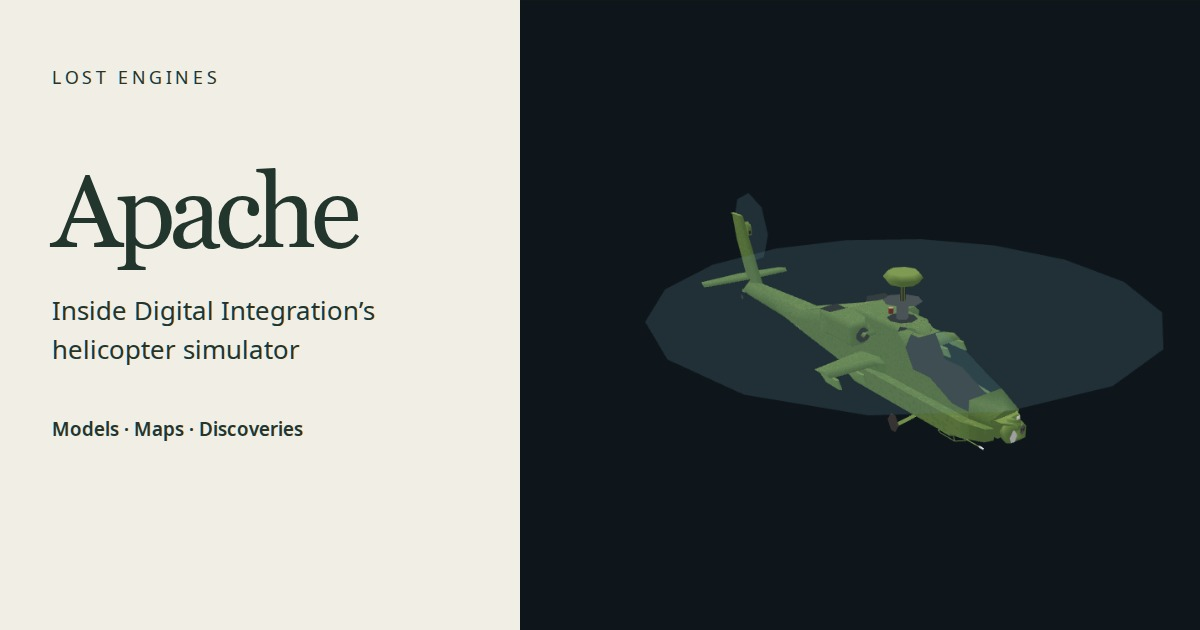
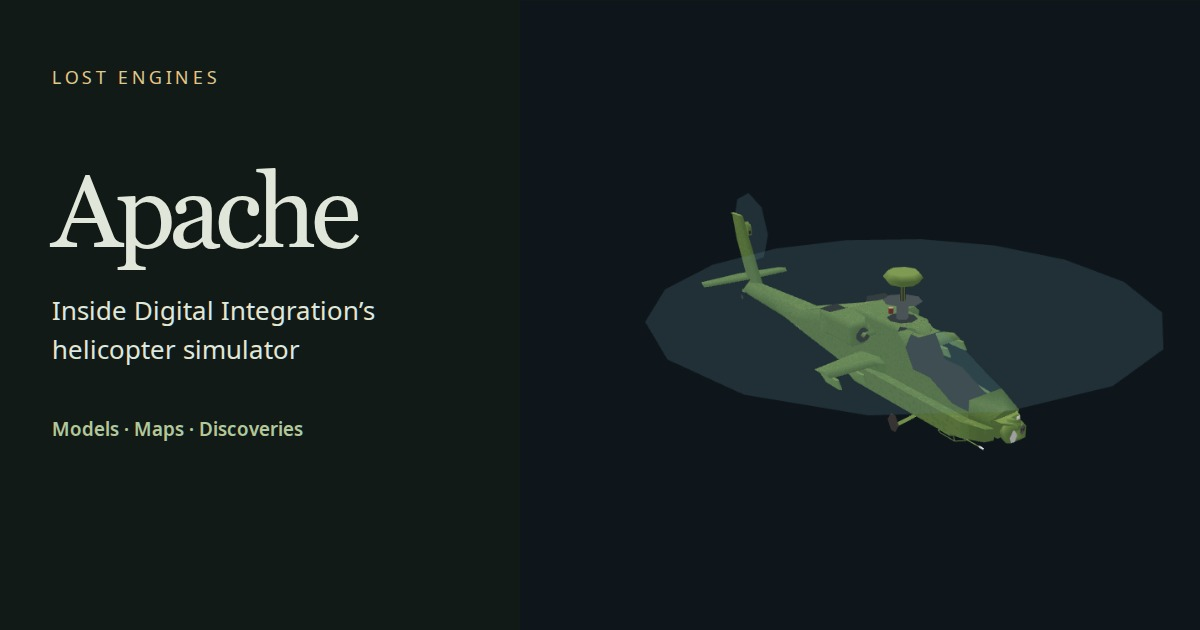
Match Apache showcase to the Lost Engines dark theme

diff --git a/src/style.css b/src/style.css
@@ -1,6 +1,10 @@
-/* Paper, ink and the olive paint of the original machines. */
-:root{color-scheme:light;--paper:#f1eee5;--ink:#23362d;--muted:#596459;--line:#c8cebf;--accent:#355d47;--panel:#e7e9de;font:17px/1.65 system-ui,-apple-system,BlinkMacSystemFont,"Segoe UI",sans-serif}*{box-sizing:border-box}html{scroll-behavior:smooth}body{margin:0;background:var(--paper);color:var(--ink)}a{color:var(--accent);text-underline-offset:.2em}a:hover{color:#89552c}button,input,select{font:inherit}button,a,input,select,summary{touch-action:manipulation}:focus-visible{outline:3px solid #b67a36;outline-offset:4px}img{max-width:100%;height:auto}figure{margin:0}h1,h2,h3,p{margin-top:0}h1,h2,h3{line-height:1.15;text-wrap:balance}h1{font-size:clamp(2.5rem,6vw,4.5rem);letter-spacing:-.045em;margin-bottom:1.1rem}h2{font-size:1.9rem;letter-spacing:-.025em}h3{font-size:1.3rem}p{max-width:74ch}code{font-size:.87em;overflow-wrap:anywhere}pre{overflow:auto;background:#e4e6dc;padding:1.1rem;border-left:3px solid #869d78;line-height:1.5}pre code{overflow-wrap:normal}figcaption{font-size:.85rem;line-height:1.5;color:var(--muted);padding:.75rem 0}.pixel-art{image-rendering:pixelated}.eyebrow{font-size:.7rem;letter-spacing:.15em;text-transform:uppercase;font-weight:750;color:var(--muted);margin-bottom:1rem}.topbar{display:flex;align-items:center;justify-content:space-between;gap:1.5rem;padding:1.2rem max(1.5rem,calc((100vw - 1380px)/2));border-bottom:1px solid var(--line);background:var(--paper)}.brand{display:flex;gap:.65rem;align-items:center;text-decoration:none;color:var(--ink);white-space:nowrap;font-weight:750;letter-spacing:-.02em}.brand b{font-weight:400}.topbar nav{display:flex;gap:1.3rem;flex-wrap:wrap}.topbar nav a{font-size:.85rem;color:var(--ink);text-decoration:none;padding:.2rem 0}.topbar nav a:hover,.topbar nav a[aria-current]{box-shadow:0 2px #71846a}.nav-toggle{display:none;background:transparent;border:1px solid var(--line);padding:.4rem .65rem;color:var(--ink)}main{max-width:1380px;margin:auto;padding:3.5rem 1.5rem 4rem}.skip-link{position:absolute;top:-100px;left:1rem;padding:.7rem;background:var(--paper);z-index:10}.skip-link:focus{top:0}.hero{display:grid;grid-template-columns:1fr 1.15fr;align-items:center;gap:3rem;min-height:540px}.hero h1{font-family:Georgia,serif;font-size:clamp(4rem,6.7vw,6rem);font-weight:400;letter-spacing:-.055em;line-height:.97;margin:1.4rem 0}.hero h1 em{font-weight:400;color:#52714f}.hero-copy>p:not(.eyebrow){max-width:40ch}.lede{font-size:1.2rem;line-height:1.55}.hero-image img{display:block;width:100%;background:#0e171d;aspect-ratio:1.28;object-fit:cover;border-radius:1px}.hero-image figcaption{text-align:right;max-width:44ch;margin-left:auto}.hero-actions{display:flex;align-items:center;gap:1.4rem;flex-wrap:wrap;margin:2rem 0}.hero-actions a{font-size:.9rem}.button{display:inline-flex;align-items:center;gap:1rem;background:var(--ink);color:#f6f0df;text-decoration:none;padding:.85rem 1.1rem}.button:hover{color:#fff;background:#466143}.section-heading{display:flex;justify-content:space-between;align-items:baseline;gap:1.5rem;border-top:1px solid var(--line);padding-top:2rem}.section-heading p{font-size:.9rem;color:var(--muted)}.explore{margin:4.5rem 0}.exhibit-cards{display:grid;grid-template-columns:1fr 1fr;gap:2.3rem 1.6rem}.exhibit-card{text-decoration:none;display:block;border:1px solid var(--line);color:var(--ink);background:#e8e9df;transition:transform .15s}.exhibit-card:hover{transform:translateY(-3px);color:var(--ink);border-color:#7a9072}.exhibit-card>img{width:100%;aspect-ratio:16/9;object-fit:cover;background:#0e171d;display:block}.exhibit-card>div{padding:1.35rem 1.5rem}.exhibit-card .eyebrow{margin-bottom:.55rem}.exhibit-card h3{margin-bottom:.8rem}.exhibit-card h3 span{float:right}.exhibit-card p:last-child{font-size:.95rem;color:var(--muted);margin:0}.discovery{display:grid;grid-template-columns:320px 1fr;align-items:center;gap:3rem;padding:2.5rem;background:#e1e4d5;border:1px solid #c1c9b4;margin-bottom:4rem}.discovery img{display:block;width:100%}.discovery p{max-width:55ch}.play-section{display:grid;grid-template-columns:1.5fr 1fr;gap:4rem;border-top:1px solid var(--line);padding:2.3rem 0}.play-links{display:flex;flex-direction:column;justify-content:center}.play-links a{padding:1rem 0;border-bottom:1px solid var(--line);text-decoration:none;font-size:1.2rem}.play-links span{float:right}.site-footer{max-width:1380px;margin:auto;border-top:1px solid var(--line);padding:2rem 1.5rem 3rem;display:flex;justify-content:space-between;gap:2rem;color:var(--muted);font-size:.85rem}.site-footer nav{display:flex;gap:1.3rem;flex-wrap:wrap;align-items:flex-start}.site-footer a{text-decoration:none}.footer-brand{font-weight:700;font-size:1rem}.site-footer p{margin:.4rem 0}.prose{max-width:780px;margin:auto;font:1.14rem/1.85 Georgia,"Times New Roman",serif}.prose h1,.prose h2,.prose .eyebrow,.prose figcaption{font-family:system-ui,sans-serif}.prose h1{font-size:clamp(2.6rem,5vw,4rem);margin-bottom:1.5rem}.prose h2{margin:3rem 0 1.2rem;scroll-margin-top:2rem;font-size:1.8rem}.prose p{margin-bottom:1.35rem}.prose figure{margin:2rem -1.5rem}.prose figure img{display:block;width:100%;background:#0e171d}.prose figure .small-source{width:640px;max-width:100%;margin:auto}.prose figcaption{font-size:.8rem;line-height:1.6}.prose pre{font-size:.9rem}.prose li{margin-bottom:.6rem}.story-layout{display:grid;grid-template-columns:210px minmax(0,1fr);gap:3.5rem;max-width:1150px;margin:auto}.contents{position:sticky;top:2rem;align-self:start}.contents nav{display:flex;flex-direction:column;gap:.7rem}.contents a{font-size:.82rem;text-decoration:none;line-height:1.45}.contents .eyebrow{margin-bottom:1.3rem}.image-link{display:block;font: .8rem/1.5 system-ui,sans-serif;text-align:center;padding:.7rem}.art-layout{display:grid;grid-template-columns:1.1fr 1fr;gap:3.5rem;align-items:center}.exhibit-intro{max-width:850px;margin-bottom:2rem}.art-frame img{display:block;width:640px;margin:auto}.art-notes h2{font-size:1.5rem}.fog-section{border-top:1px solid var(--line);margin-top:4rem;padding-top:3rem}.art-layout button{background:#e1e5d7;color:var(--ink);border:1px solid #a6b29b;padding:.6rem 1rem;cursor:pointer}.art-layout button[aria-pressed=true]{background:var(--ink);color:#f6f0df}.toolbar{display:flex;gap:.8rem;flex-wrap:wrap;align-items:center;margin:1rem 0}.muted{color:var(--muted)}.page-exhibit{--bg:#111a17;--paper:#111a17;--ink:#e0e7da;--text:#e0e7da;--muted:#a7b6a4;--panel:#1d2a24;--line:#3b4b3f;--accent:#e1c88b;color-scheme:dark}.page-exhibit main{max-width:1680px;padding-top:2.5rem}.page-exhibit .topbar{background:#17221b}.page-exhibit .brand{color:#e0e7da}.page-exhibit h1{font-size:2.8rem}.page-exhibit a:hover{color:#fff1c5}.page-exhibit .topbar nav a{color:#dce3d6}.page-exhibit p{max-width:85ch}.page-exhibit label{font-size:.87rem}.page-exhibit select{max-width:100%}.page-exhibit .exhibit>p:first-of-type{color:var(--muted);margin-bottom:1.5rem}.page-exhibit #figure{height:560px;min-height:0}.page-exhibit .details h2{font-size:1.2rem}.page-exhibit .panel{border-radius:2px}.page-exhibit .viewer-wrap{border-radius:2px}.page-exhibit summary{cursor:pointer;padding:.6rem 0;color:var(--accent)}.page-exhibit .timeline{flex:1;max-width:600px}.page-exhibit .timeline input{width:100%;min-width:100px}.page-exhibit .toolbar h2{font-size:1.2rem;margin:0}.page-exhibit #mission{max-width:100%;width:32ch}.page-exhibit .browser-filters{gap:1.1rem}.page-exhibit #count{font-size:.85rem}.page-exhibit #briefing p{font-size:.9rem}.page-exhibit #error:empty{display:none}.page-exhibit #nearby,.page-exhibit #actors{font-size:.85rem}.page-exhibit #view{outline:none}.page-exhibit .exhibit-intro p{color:var(--muted)}.page-exhibit .exhibit-intro .eyebrow{color:var(--accent)}.page-exhibit .preview{padding:.8rem}.page-exhibit .parts{margin-top:1rem}.page-exhibit .parts article{overflow:hidden}.page-exhibit .parts strong{display:block}
+/* Olive and amber accents, with surfaces that follow the browser colour scheme. */
+:root{color-scheme:light;--paper:#f1eee5;--ink:#23362d;--muted:#596459;--line:#c8cebf;--accent:#355d47;--panel:#e7e9de;--surface:#e8e9df;--code:#e4e6dc;--code-line:#869d78;--band:#e1e4d5;--band-line:#c1c9b4;--hover:#89552c;--heading-accent:#52714f;--button:#23362d;--button-ink:#f6f0df;--button-hover:#466143;--focus:#b67a36;--nav-line:#71846a;--control:#e1e5d7;--control-line:#a6b29b;font:17px/1.65 system-ui,-apple-system,BlinkMacSystemFont,"Segoe UI",sans-serif}*{box-sizing:border-box}html{scroll-behavior:smooth}body{margin:0;background:var(--paper);color:var(--ink)}a{color:var(--accent);text-underline-offset:.2em}a:hover{color:var(--hover)}button,input,select{font:inherit}button,a,input,select,summary{touch-action:manipulation}:focus-visible{outline:3px solid var(--focus);outline-offset:4px}img{max-width:100%;height:auto}figure{margin:0}h1,h2,h3,p{margin-top:0}h1,h2,h3{line-height:1.15;text-wrap:balance}h1{font-size:clamp(2.5rem,6vw,4.5rem);letter-spacing:-.045em;margin-bottom:1.1rem}h2{font-size:1.9rem;letter-spacing:-.025em}h3{font-size:1.3rem}p{max-width:74ch}code{font-size:.87em;overflow-wrap:anywhere}pre{overflow:auto;background:var(--code);padding:1.1rem;border-left:3px solid var(--code-line);line-height:1.5}pre code{overflow-wrap:normal}figcaption{font-size:.85rem;line-height:1.5;color:var(--muted);padding:.75rem 0}.pixel-art{image-rendering:pixelated}.eyebrow{font-size:.7rem;letter-spacing:.15em;text-transform:uppercase;font-weight:750;color:var(--muted);margin-bottom:1rem}.topbar{display:flex;align-items:center;justify-content:space-between;gap:1.5rem;padding:1.2rem max(1.5rem,calc((100vw - 1380px)/2));border-bottom:1px solid var(--line);background:var(--paper)}.brand{display:flex;gap:.65rem;align-items:center;text-decoration:none;color:var(--ink);white-space:nowrap;font-weight:750;letter-spacing:-.02em}.brand b{font-weight:400}.topbar nav{display:flex;gap:1.3rem;flex-wrap:wrap}.topbar nav a{font-size:.85rem;color:var(--ink);text-decoration:none;padding:.2rem 0}.topbar nav a:hover,.topbar nav a[aria-current]{box-shadow:0 2px var(--nav-line)}.nav-toggle{display:none;background:transparent;border:1px solid var(--line);padding:.4rem .65rem;color:var(--ink)}main{max-width:1380px;margin:auto;padding:3.5rem 1.5rem 4rem}.skip-link{position:absolute;top:-100px;left:1rem;padding:.7rem;background:var(--paper);z-index:10}.skip-link:focus{top:0}.hero{display:grid;grid-template-columns:1fr 1.15fr;align-items:center;gap:3rem;min-height:540px}.hero h1{font-family:Georgia,serif;font-size:clamp(4rem,6.7vw,6rem);font-weight:400;letter-spacing:-.055em;line-height:.97;margin:1.4rem 0}.hero h1 em{font-weight:400;color:var(--heading-accent)}.hero-copy>p:not(.eyebrow){max-width:40ch}.lede{font-size:1.2rem;line-height:1.55}.hero-image img{display:block;width:100%;background:#0e171d;aspect-ratio:1.28;object-fit:cover;border-radius:1px}.hero-image figcaption{text-align:right;max-width:44ch;margin-left:auto}.hero-actions{display:flex;align-items:center;gap:1.4rem;flex-wrap:wrap;margin:2rem 0}.hero-actions a{font-size:.9rem}.button{display:inline-flex;align-items:center;gap:1rem;background:var(--button);color:var(--button-ink);text-decoration:none;padding:.85rem 1.1rem}.button:hover{color:var(--button-ink);background:var(--button-hover)}.section-heading{display:flex;justify-content:space-between;align-items:baseline;gap:1.5rem;border-top:1px solid var(--line);padding-top:2rem}.section-heading p{font-size:.9rem;color:var(--muted)}.explore{margin:4.5rem 0}.exhibit-cards{display:grid;grid-template-columns:1fr 1fr;gap:2.3rem 1.6rem}.exhibit-card{text-decoration:none;display:block;border:1px solid var(--line);color:var(--ink);background:var(--surface);transition:transform .15s}.exhibit-card:hover{transform:translateY(-3px);color:var(--ink);border-color:var(--accent)}.exhibit-card>img{width:100%;aspect-ratio:16/9;object-fit:cover;background:#0e171d;display:block}.exhibit-card>div{padding:1.35rem 1.5rem}.exhibit-card .eyebrow{margin-bottom:.55rem}.exhibit-card h3{margin-bottom:.8rem}.exhibit-card h3 span{float:right}.exhibit-card p:last-child{font-size:.95rem;color:var(--muted);margin:0}.discovery{display:grid;grid-template-columns:320px 1fr;align-items:center;gap:3rem;padding:2.5rem;background:var(--band);border:1px solid var(--band-line);margin-bottom:4rem}.discovery img{display:block;width:100%}.discovery p{max-width:55ch}.play-section{display:grid;grid-template-columns:1.5fr 1fr;gap:4rem;border-top:1px solid var(--line);padding:2.3rem 0}.play-links{display:flex;flex-direction:column;justify-content:center}.play-links a{padding:1rem 0;border-bottom:1px solid var(--line);text-decoration:none;font-size:1.2rem}.play-links span{float:right}.site-footer{max-width:1380px;margin:auto;border-top:1px solid var(--line);padding:2rem 1.5rem 3rem;display:flex;justify-content:space-between;gap:2rem;color:var(--muted);font-size:.85rem}.site-footer nav{display:flex;gap:1.3rem;flex-wrap:wrap;align-items:flex-start}.site-footer a{text-decoration:none}.footer-brand{font-weight:700;font-size:1rem}.site-footer p{margin:.4rem 0}.prose{max-width:780px;margin:auto;font:1.14rem/1.85 Georgia,"Times New Roman",serif}.prose h1,.prose h2,.prose .eyebrow,.prose figcaption{font-family:system-ui,sans-serif}.prose h1{font-size:clamp(2.6rem,5vw,4rem);margin-bottom:1.5rem}.prose h2{margin:3rem 0 1.2rem;scroll-margin-top:2rem;font-size:1.8rem}.prose p{margin-bottom:1.35rem}.prose figure{margin:2rem -1.5rem}.prose figure img{display:block;width:100%;background:#0e171d}.prose figure .small-source{width:640px;max-width:100%;margin:auto}.prose figcaption{font-size:.8rem;line-height:1.6}.prose pre{font-size:.9rem}.prose li{margin-bottom:.6rem}.story-layout{display:grid;grid-template-columns:210px minmax(0,1fr);gap:3.5rem;max-width:1150px;margin:auto}.contents{position:sticky;top:2rem;align-self:start}.contents nav{display:flex;flex-direction:column;gap:.7rem}.contents a{font-size:.82rem;text-decoration:none;line-height:1.45}.contents .eyebrow{margin-bottom:1.3rem}.image-link{display:block;font: .8rem/1.5 system-ui,sans-serif;text-align:center;padding:.7rem}.art-layout{display:grid;grid-template-columns:1.1fr 1fr;gap:3.5rem;align-items:center}.exhibit-intro{max-width:850px;margin-bottom:2rem}.art-frame img{display:block;width:640px;margin:auto}.art-notes h2{font-size:1.5rem}.fog-section{border-top:1px solid var(--line);margin-top:4rem;padding-top:3rem}.art-layout button{background:var(--control);color:var(--ink);border:1px solid var(--control-line);padding:.6rem 1rem;cursor:pointer}.art-layout button[aria-pressed=true]{background:var(--button);color:var(--button-ink)}.toolbar{display:flex;gap:.8rem;flex-wrap:wrap;align-items:center;margin:1rem 0}.muted{color:var(--muted)}.page-exhibit{--bg:#111a17;--paper:#111a17;--ink:#e0e7da;--text:#e0e7da;--muted:#a7b6a4;--panel:#1d2a24;--line:#3b4b3f;--accent:#e1c88b;color-scheme:dark}.page-exhibit main{max-width:1680px;padding-top:2.5rem}.page-exhibit .topbar{background:#17221b}.page-exhibit .brand{color:#e0e7da}.page-exhibit h1{font-size:2.8rem}.page-exhibit a:hover{color:#fff1c5}.page-exhibit .topbar nav a{color:#dce3d6}.page-exhibit p{max-width:85ch}.page-exhibit label{font-size:.87rem}.page-exhibit select{max-width:100%}.page-exhibit .exhibit>p:first-of-type{color:var(--muted);margin-bottom:1.5rem}.page-exhibit #figure{height:560px;min-height:0}.page-exhibit .details h2{font-size:1.2rem}.page-exhibit .panel{border-radius:2px}.page-exhibit .viewer-wrap{border-radius:2px}.page-exhibit summary{cursor:pointer;padding:.6rem 0;color:var(--accent)}.page-exhibit .timeline{flex:1;max-width:600px}.page-exhibit .timeline input{width:100%;min-width:100px}.page-exhibit .toolbar h2{font-size:1.2rem;margin:0}.page-exhibit #mission{max-width:100%;width:32ch}.page-exhibit .browser-filters{gap:1.1rem}.page-exhibit #count{font-size:.85rem}.page-exhibit #briefing p{font-size:.9rem}.page-exhibit #error:empty{display:none}.page-exhibit #nearby,.page-exhibit #actors{font-size:.85rem}.page-exhibit #view{outline:none}.page-exhibit .exhibit-intro p{color:var(--muted)}.page-exhibit .exhibit-intro .eyebrow{color:var(--accent)}.page-exhibit .preview{padding:.8rem}.page-exhibit .parts{margin-top:1rem}.page-exhibit .parts article{overflow:hidden}.page-exhibit .parts strong{display:block}
 @media(min-width:1600px){.page-exhibit .topbar{padding-inline:max(1.5rem,calc((100vw - 1632px)/2))}}
 @media(max-width:1000px){.topbar{flex-wrap:wrap}.topbar nav{gap:1rem}.hero{gap:2rem}.hero h1{font-size:4.6rem}.story-layout{grid-template-columns:1fr}.contents{position:static;border-bottom:1px solid var(--line);padding-bottom:1.5rem}.contents nav{display:grid;grid-template-columns:1fr 1fr}.prose figure{margin-inline:0}.discovery{gap:2rem;grid-template-columns:240px 1fr}.art-layout{gap:2rem}.section-heading{display:block}}
 @media(max-width:700px){:root{font-size:16px}.topbar{padding:1rem;gap:.6rem}.nav-toggle{display:block}.topbar nav{display:none;flex-basis:100%;padding-top:1rem;gap:.7rem 1.3rem}.topbar nav.open{display:flex}.brand{font-size:1rem}.brand img{width:25px;height:25px}main{padding:2.5rem 1.1rem}.hero{grid-template-columns:1fr;gap:1rem;min-height:0}.hero h1{font-size:5rem}.hero-copy>p:not(.eyebrow){max-width:none}.hero-image img{aspect-ratio:16/10}.hero-actions{margin:1.5rem 0}.explore{margin:3rem 0}.exhibit-cards{grid-template-columns:1fr}.discovery{grid-template-columns:1fr;padding:1.4rem;gap:1.5rem}.discovery>a{max-width:320px}.play-section{grid-template-columns:1fr;gap:1rem}.site-footer{display:block;padding:1.5rem 1.1rem}.site-footer nav{margin-top:1.4rem;gap:1rem}.story-layout{gap:2rem}.prose{font-size:1.08rem}.prose h1{font-size:2.65rem}.prose h2{font-size:1.6rem}.art-layout{grid-template-columns:1fr;gap:1rem}.page-exhibit main{padding:2rem .8rem}.page-exhibit h1{font-size:2.1rem}.page-exhibit #figure{height:420px}.page-exhibit .toolbar{gap:.7rem}.page-exhibit .toolbar label{max-width:100%;flex-wrap:wrap}.page-exhibit #file{max-width:240px}.page-exhibit .toolbar select{min-width:0}.map-grid{grid-template-columns:minmax(0,1fr)}.map-grid canvas{max-width:100%}.page-exhibit #view{min-height:0}.page-exhibit #controls{font-size:.8rem}}
 @media(prefers-reduced-motion:reduce){html{scroll-behavior:auto}.exhibit-card{transition:none}}
+
+@media(prefers-color-scheme:dark){
+ :root{color-scheme:dark;--paper:#111a17;--ink:#e0e7da;--muted:#a7b6a4;--line:#3b4b3f;--accent:#e1c88b;--panel:#1d2a24;--surface:#18251f;--code:#1d2a24;--code-line:#91a77f;--band:#1a2a21;--band-line:#3b4b3f;--hover:#fff1c5;--heading-accent:#b3c79b;--button:#e1c88b;--button-ink:#111a17;--button-hover:#f0d99f;--focus:#e1c88b;--nav-line:#b3c79b;--control:#1d2a24;--control-line:#5d705e}
+}
